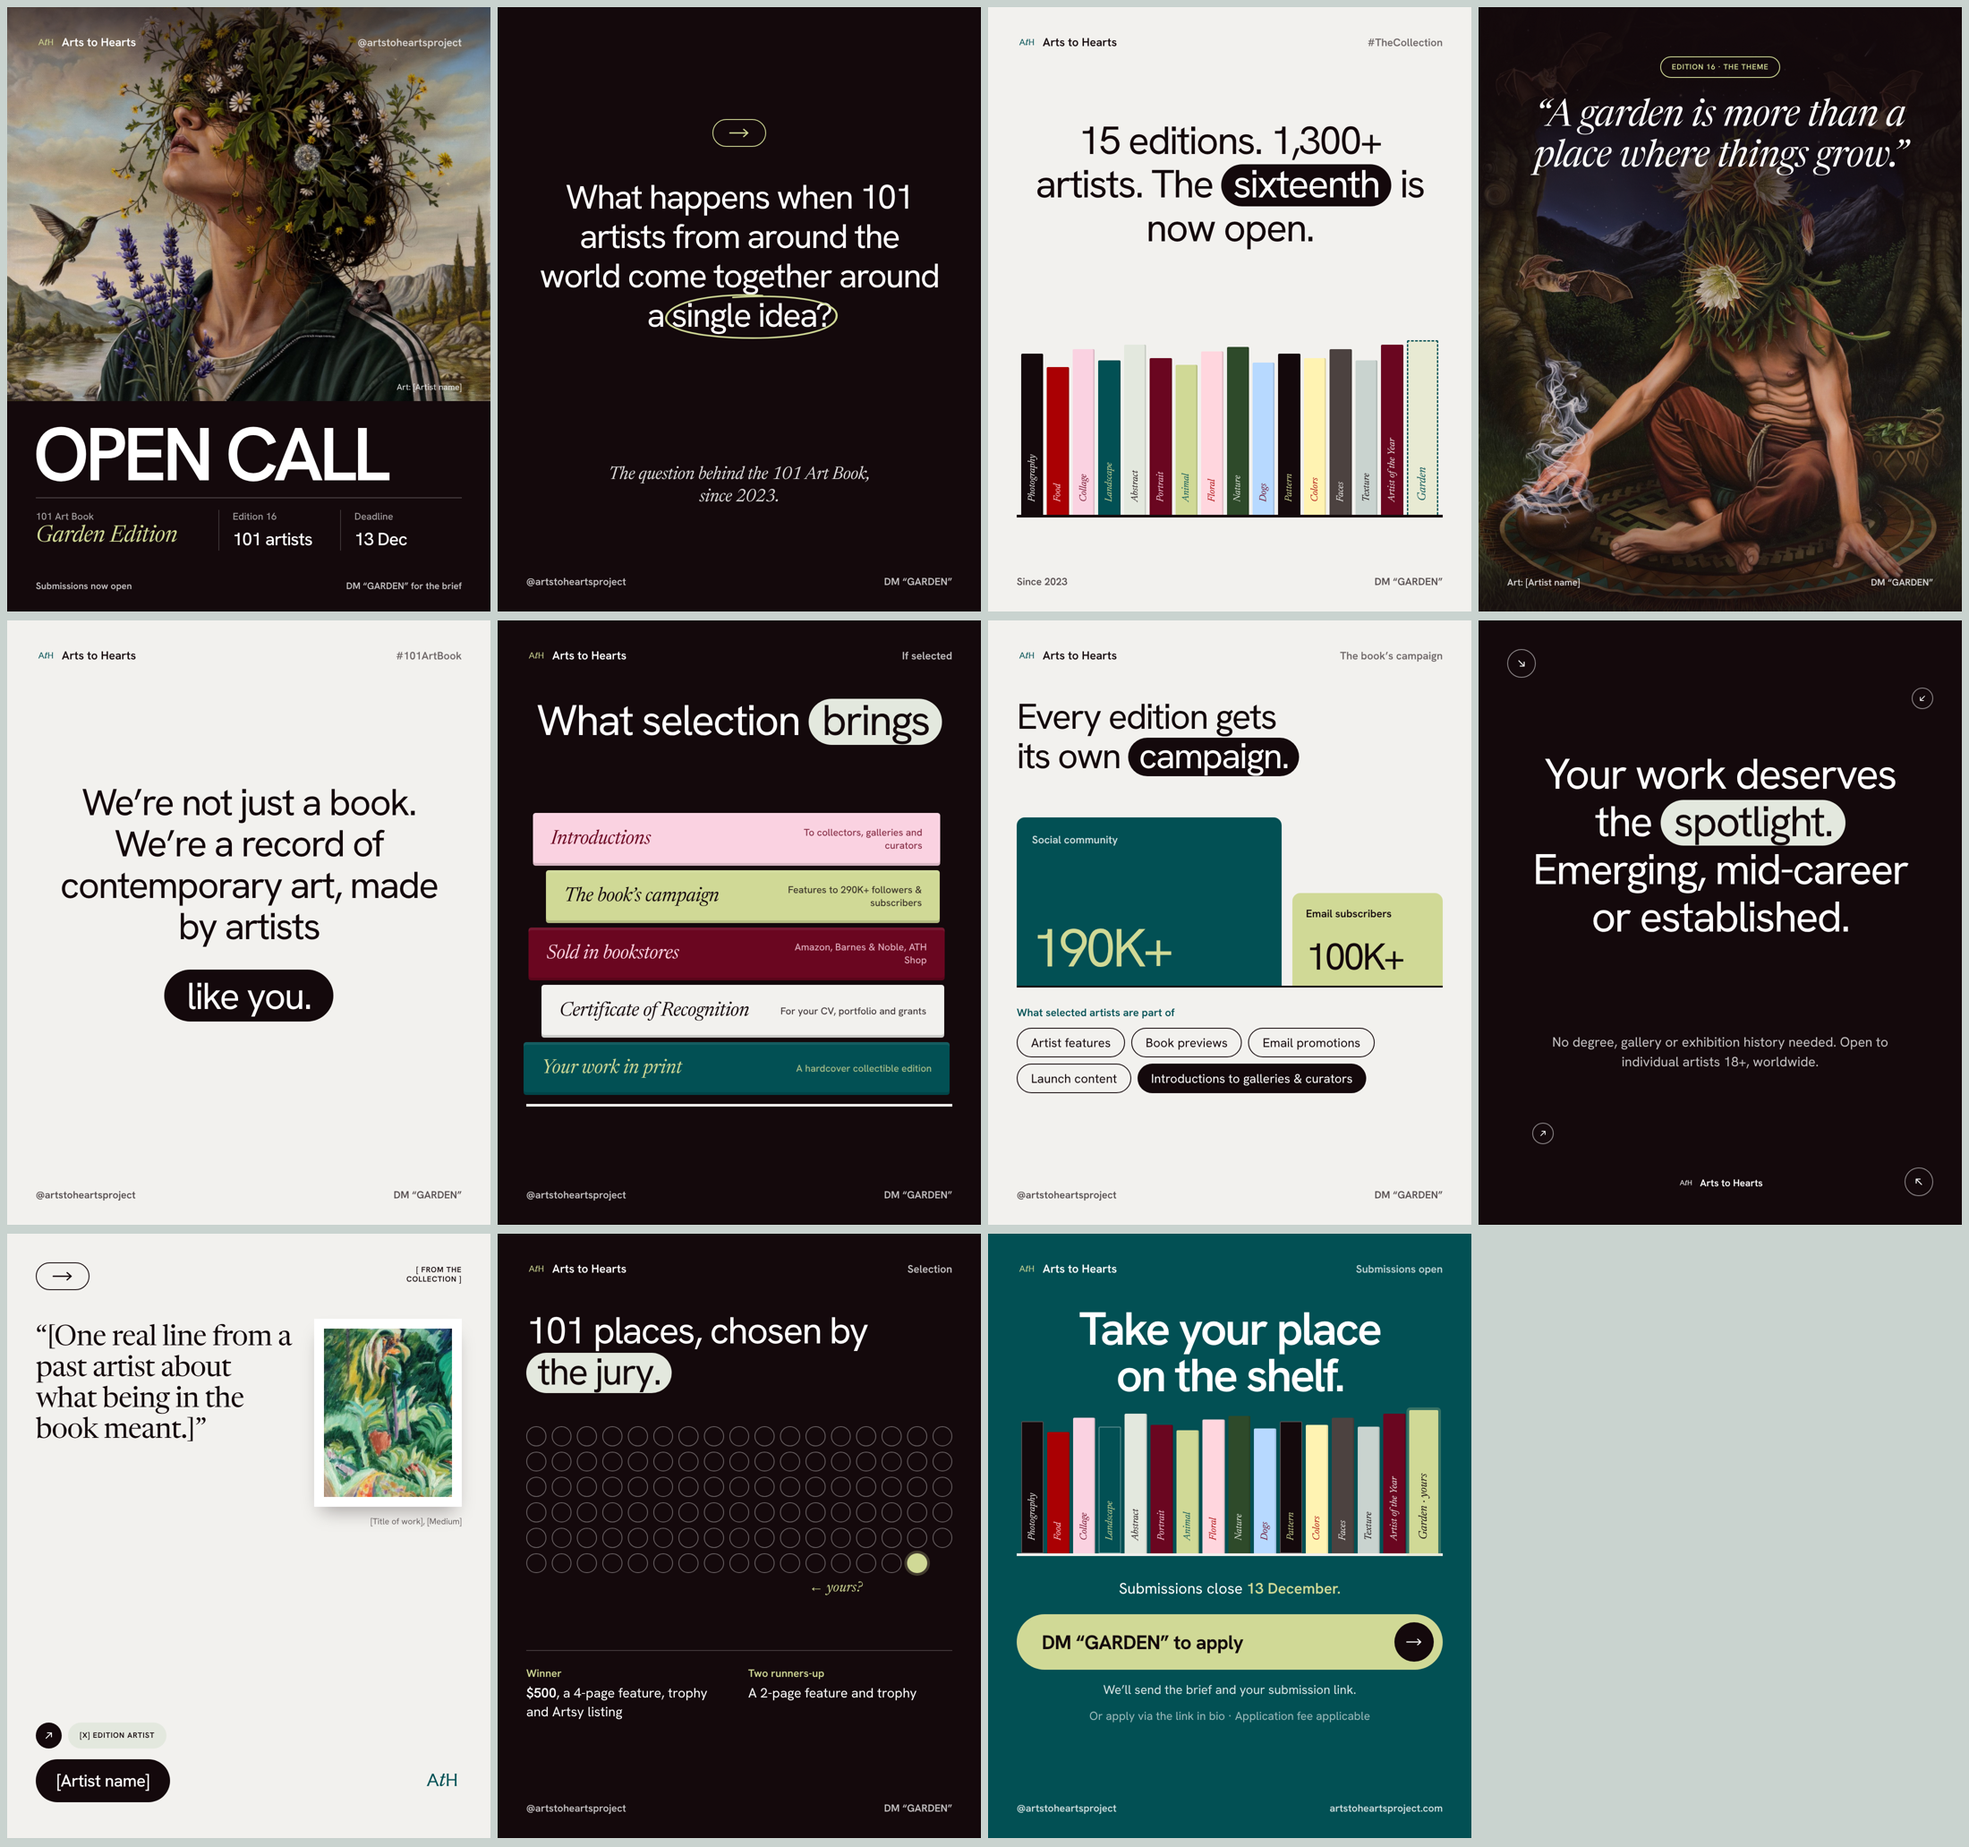
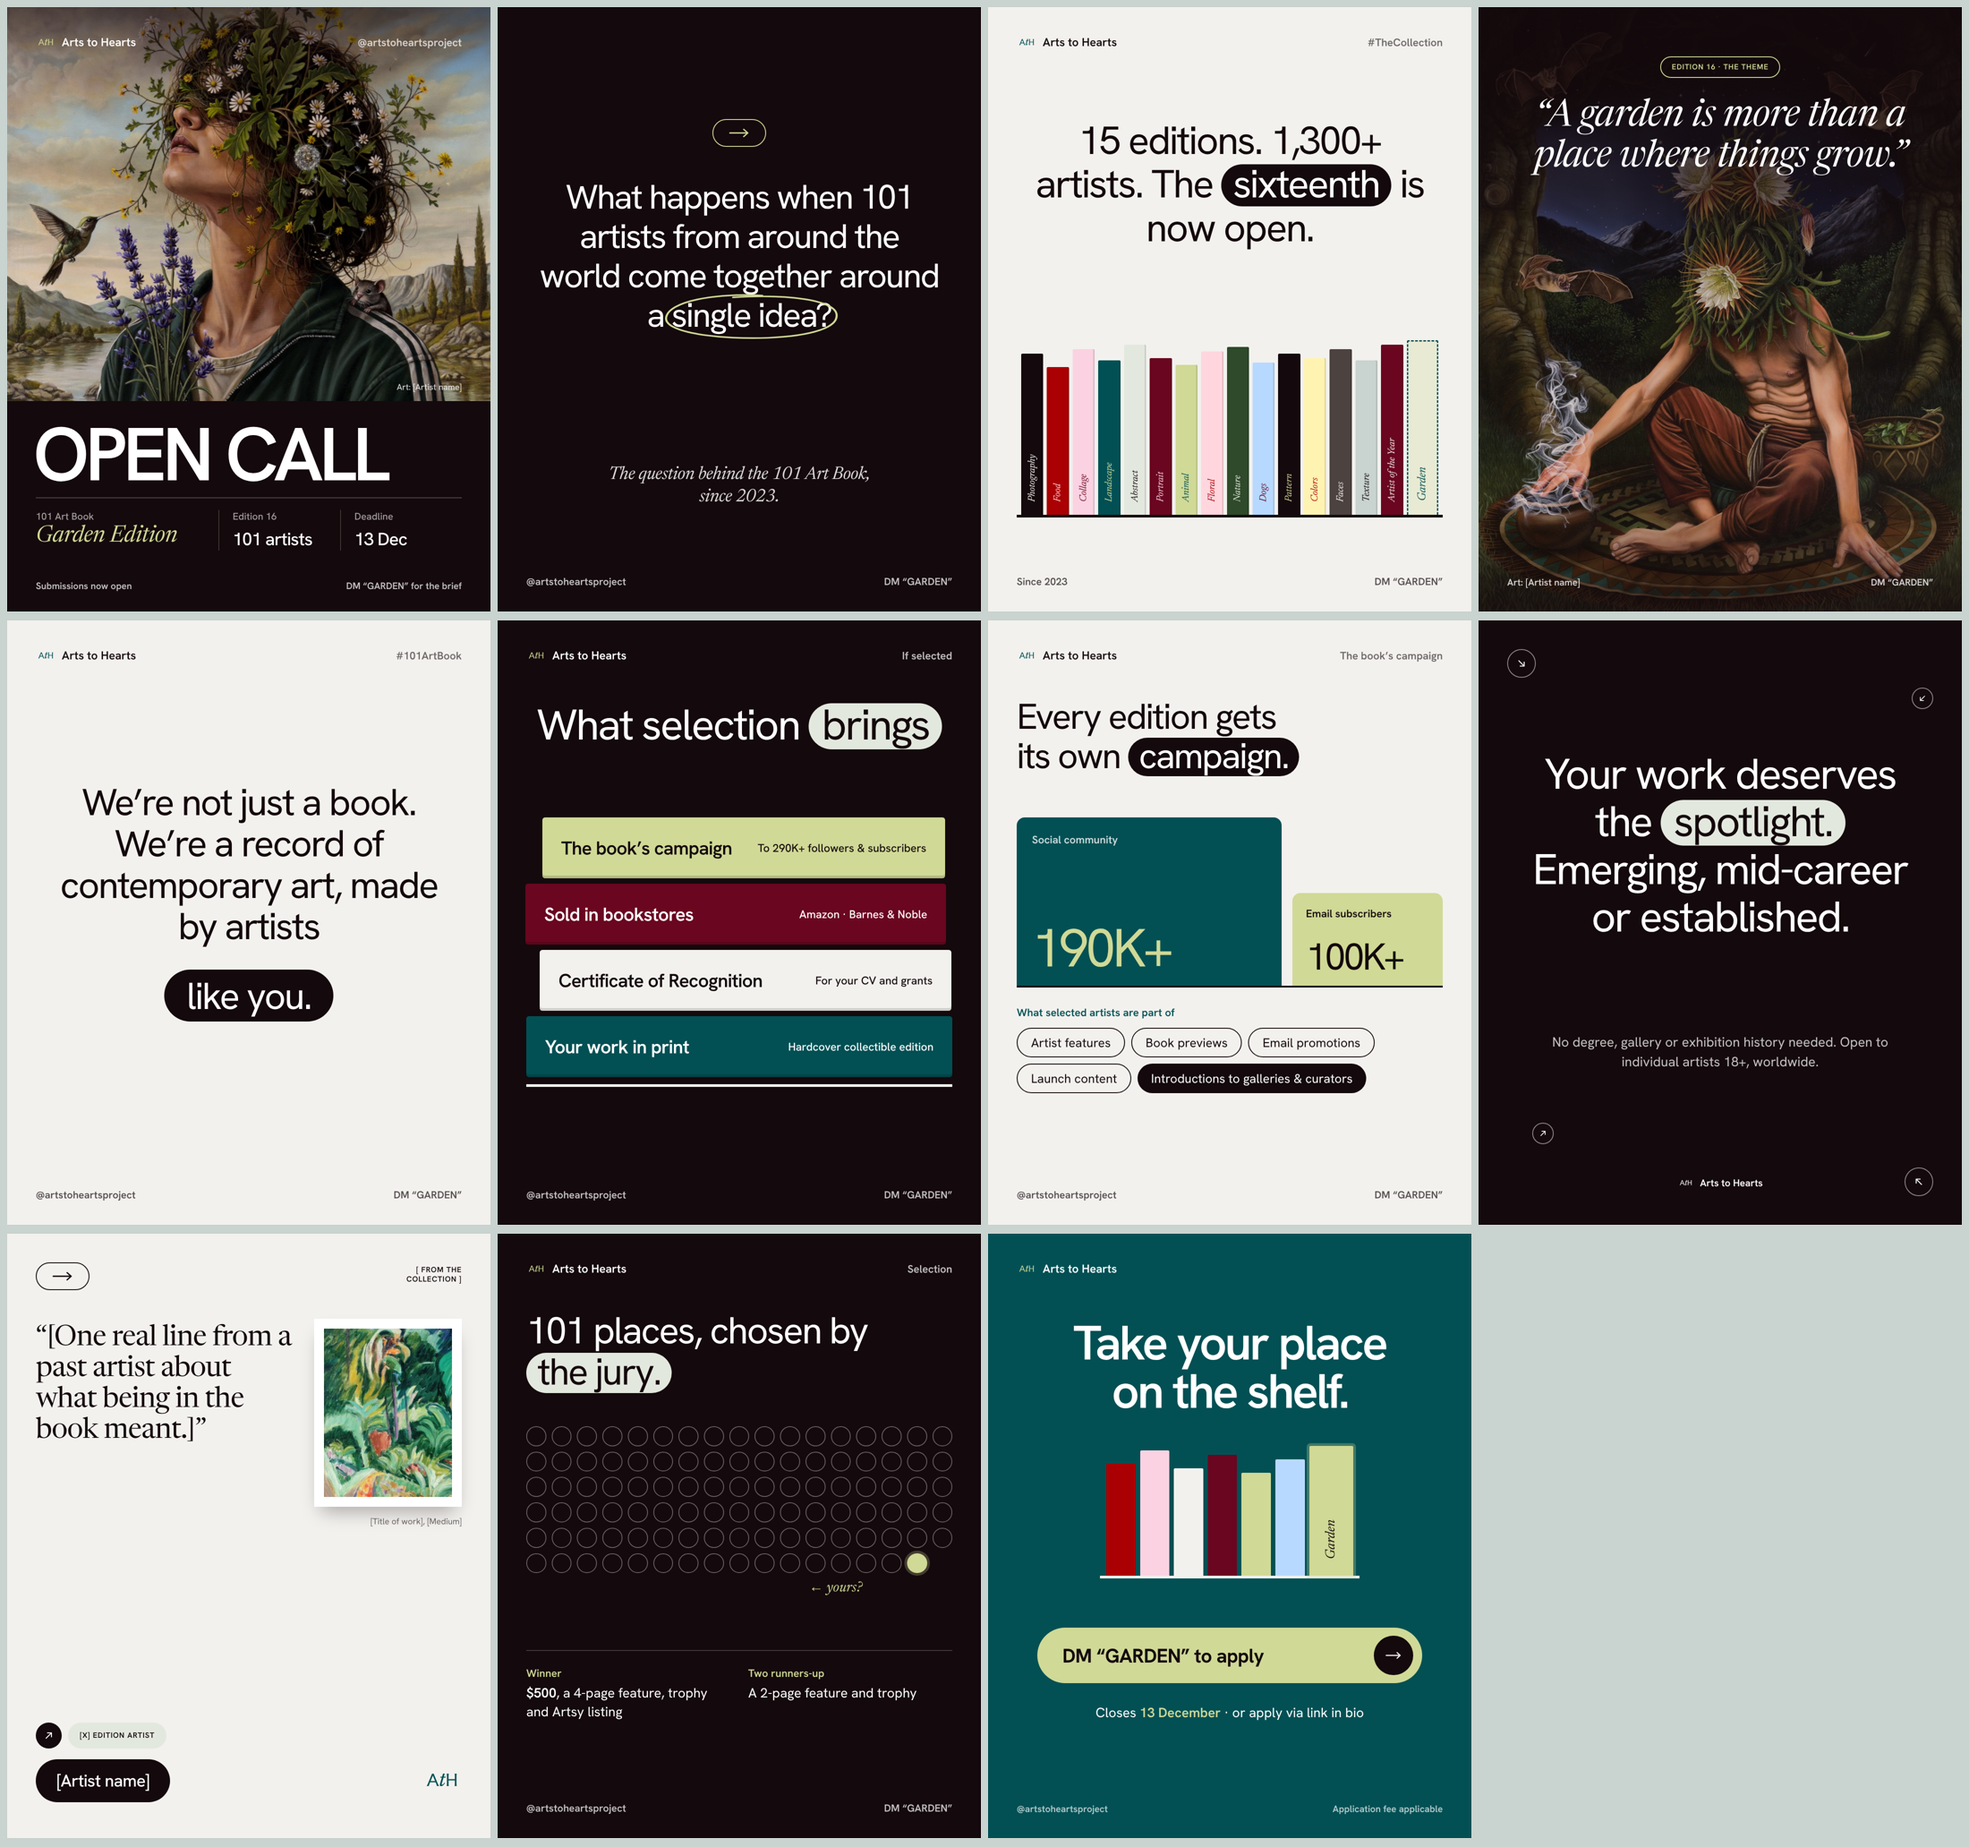
Garden launch: readable benefits stack, decluttered closing slide
Claude-Session: https://claude.ai/code/session_01Bc4gkdxg6i3YRuybqzVB3k

Changed region(s): [[0.4945, 0.7135, 0.7418, 0.9307], [0.2473, 0.4343, 0.4945, 0.6205], [0.2782, 0.3723, 0.4945, 0.4033]]

diff --git a/design/campaigns/open-calls/launch-ref.html b/design/campaigns/open-calls/launch-ref.html
@@ -81,9 +81,9 @@ body{margin:0;background:#C9D3CF;display:flex;flex-wrap:wrap;gap:40px;padding:40
 <!-- 6 · WHAT SELECTION BRINGS: a stack of books, one per benefit -->
 <div class="s dk" id="r6">
   <div class="a hdr"><span class="lg"><svg width="44" height="44" style="color:var(--pi)"><use href="#mg"/></svg>Arts to Hearts</span><span class="sm" style="opacity:.75">If selected</span></div>
-  <p class="a R c" style="left:80px;right:80px;top:170px;font-size:96px">What selection <span class="hl">brings</span></p>
-  <div class="a" style="left:64px;right:64px;top:430px;display:flex;flex-direction:column;gap:10px"><div style="width:910px;height:118px;margin-left:15px;background:#FAD2E1;color:#6A0620;border-radius:6px;display:flex;align-items:center;justify-content:space-between;padding:0 40px;box-shadow:inset 0 -6px 0 rgba(0,0,0,.14),inset 0 6px 0 rgba(255,255,255,.08)"><span class="it" style="font-size:44px">Introductions</span><span style="font-size:22px;font-weight:500;opacity:.8;text-align:right;max-width:330px;line-height:1.3">To collectors, galleries and curators</span></div><div style="width:880px;height:118px;margin-left:44px;background:#D0D996;color:#14090C;border-radius:6px;display:flex;align-items:center;justify-content:space-between;padding:0 40px;box-shadow:inset 0 -6px 0 rgba(0,0,0,.14),inset 0 6px 0 rgba(255,255,255,.08)"><span class="it" style="font-size:44px">The book’s campaign</span><span style="font-size:22px;font-weight:500;opacity:.8;text-align:right;max-width:330px;line-height:1.3">Features to 290K+ followers &amp; subscribers</span></div><div style="width:930px;height:118px;margin-left:5px;background:#6A0620;color:#FAD2E1;border-radius:6px;display:flex;align-items:center;justify-content:space-between;padding:0 40px;box-shadow:inset 0 -6px 0 rgba(0,0,0,.14),inset 0 6px 0 rgba(255,255,255,.08)"><span class="it" style="font-size:44px">Sold in bookstores</span><span style="font-size:22px;font-weight:500;opacity:.8;text-align:right;max-width:330px;line-height:1.3">Amazon, Barnes &amp; Noble, ATH Shop</span></div><div style="width:900px;height:118px;margin-left:34px;background:#F2F1EE;color:#14090C;border-radius:6px;display:flex;align-items:center;justify-content:space-between;padding:0 40px;box-shadow:inset 0 -6px 0 rgba(0,0,0,.14),inset 0 6px 0 rgba(255,255,255,.08)"><span class="it" style="font-size:44px">Certificate of Recognition</span><span style="font-size:22px;font-weight:500;opacity:.8;text-align:right;max-width:330px;line-height:1.3">For your CV, portfolio and grants</span></div><div style="width:952px;height:118px;margin-left:-6px;background:#025054;color:#D0D996;border-radius:6px;display:flex;align-items:center;justify-content:space-between;padding:0 40px;box-shadow:inset 0 -6px 0 rgba(0,0,0,.14),inset 0 6px 0 rgba(255,255,255,.08)"><span class="it" style="font-size:44px">Your work in print</span><span style="font-size:22px;font-weight:500;opacity:.8;text-align:right;max-width:330px;line-height:1.3">A hardcover collectible edition</span></div></div>
-  <div class="a" style="left:64px;right:64px;top:1080px;border-top:6px solid #F2F1EE"></div>
+  <p class="a R c" style="left:80px;right:80px;top:180px;font-size:96px">What selection <span class="hl">brings</span></p>
+  <div class="a" style="left:64px;right:64px;top:440px;display:flex;flex-direction:column;gap:12px"><div style="width:900px;height:136px;margin-left:36px;background:#D0D996;color:#14090C;border-radius:6px;display:flex;align-items:center;justify-content:space-between;padding:0 42px;box-shadow:inset 0 -6px 0 rgba(0,0,0,.14)"><span style="font-size:42px;font-weight:600;letter-spacing:-.025em">The book’s campaign</span><span style="font-size:25px;font-weight:500;text-align:right">To 290K+ followers &amp; subscribers</span></div><div style="width:940px;height:136px;margin-left:-2px;background:#6A0620;color:#FFFFFF;border-radius:6px;display:flex;align-items:center;justify-content:space-between;padding:0 42px;box-shadow:inset 0 -6px 0 rgba(0,0,0,.14)"><span style="font-size:42px;font-weight:600;letter-spacing:-.025em">Sold in bookstores</span><span style="font-size:25px;font-weight:500;text-align:right">Amazon · Barnes &amp; Noble</span></div><div style="width:920px;height:136px;margin-left:30px;background:#F2F1EE;color:#14090C;border-radius:6px;display:flex;align-items:center;justify-content:space-between;padding:0 42px;box-shadow:inset 0 -6px 0 rgba(0,0,0,.14)"><span style="font-size:42px;font-weight:600;letter-spacing:-.025em">Certificate of Recognition</span><span style="font-size:25px;font-weight:500;text-align:right">For your CV and grants</span></div><div style="width:952px;height:136px;margin-left:0px;background:#025054;color:#FFFFFF;border-radius:6px;display:flex;align-items:center;justify-content:space-between;padding:0 42px;box-shadow:inset 0 -6px 0 rgba(0,0,0,.14)"><span style="font-size:42px;font-weight:600;letter-spacing:-.025em">Your work in print</span><span style="font-size:25px;font-weight:500;text-align:right">Hardcover collectible edition</span></div></div>
+  <div class="a" style="left:64px;right:64px;top:1036px;border-top:6px solid #F2F1EE"></div>
   <div class="a ftr" style="opacity:.75"><span>@artstoheartsproject</span><span>DM “GARDEN”</span></div>
 </div>
 
@@ -142,18 +142,16 @@ body{margin:0;background:#C9D3CF;display:flex;flex-wrap:wrap;gap:40px;padding:40
   <div class="a ftr" style="opacity:.75"><span>@artstoheartsproject</span><span>DM “GARDEN”</span></div>
 </div>
 
-<!-- 11 · CTA: the shelf again, now with Garden filled in, and a clear action -->
+<!-- 11 · CTA: short shelf, one action -->
 <div class="s" id="r11" style="background:var(--pet);color:#fff">
-  <div class="a hdr"><span class="lg"><svg width="44" height="44" style="color:var(--pi)"><use href="#mg"/></svg>Arts to Hearts</span><span class="sm" style="opacity:.75">Submissions open</span></div>
-  <p class="a H c" style="left:60px;right:60px;top:160px;font-size:104px">Take your place<br>on the shelf.</p>
-  <div class="a" id="shelf2" style="left:64px;right:64px;top:420px;height:300px;display:flex;align-items:flex-end;gap:8px;border-bottom:6px solid #F2F1EE;padding:0 10px"></div>
-  <p class="a c" style="left:0;right:0;top:770px;font-size:34px">Submissions close <b style="font-weight:600;color:var(--pi)">13 December.</b></p>
-  <div class="a" style="left:64px;right:64px;top:850px;height:124px;border-radius:999px;background:var(--pi);color:var(--ink);display:flex;align-items:center;justify-content:space-between;padding:0 20px 0 56px">
+  <div class="a hdr"><span class="lg"><svg width="44" height="44" style="color:var(--pi)"><use href="#mg"/></svg>Arts to Hearts</span><span class="sm" style="opacity:.75"></span></div>
+  <p class="a H c" style="left:60px;right:60px;top:190px;font-size:108px">Take your place<br>on the shelf.</p>
+  <div class="a" id="shelf4" style="left:250px;right:250px;top:470px;height:300px;display:flex;align-items:flex-end;gap:10px;border-bottom:6px solid #F2F1EE;padding:0 14px"></div>
+  <div class="a" style="left:110px;right:110px;top:880px;height:124px;border-radius:999px;background:var(--pi);color:var(--ink);display:flex;align-items:center;justify-content:space-between;padding:0 20px 0 56px">
     <span style="font-size:44px;font-weight:700;letter-spacing:-.02em">DM “GARDEN” to apply</span>
     <span class="ci" style="width:88px;height:88px;background:var(--ink);color:#fff"><svg width="36" height="16"><use href="#ar"/></svg></span></div>
-  <p class="a c" style="left:0;right:0;top:1000px;font-size:28px;opacity:.85">We’ll send the brief and your submission link.</p>
-  <p class="a c" style="left:0;right:0;top:1060px;font-size:26px;opacity:.6">Or apply via the link in bio · Application fee applicable</p>
-  <div class="a ftr" style="opacity:.8"><span>@artstoheartsproject</span><span>artstoheartsproject.com</span></div>
+  <p class="a c" style="left:0;right:0;top:1050px;font-size:30px">Closes <b style="font-weight:600;color:var(--pi)">13 December</b> · or apply via link in bio</p>
+  <div class="a ftr" style="opacity:.7;font-size:21px"><span>@artstoheartsproject</span><span>Application fee applicable</span></div>
 </div>
 
 <script>
@@ -164,10 +162,11 @@ function shelf(id, k, slot){
    + `<div style="flex:1.3;height:${390*k}px;border:3px dashed ${slot};border-bottom:none;border-radius:3px 3px 0 0;position:relative;background:rgba(208,217,150,.3)">${lab('Garden',slot,26)}</div>`;
 }
 shelf('shelf', 1, '#025054');
-shelf('shelf2', .82, '#D0D996');
-{ const g = document.getElementById('shelf2').lastElementChild; g.style.background='#D0D996'; g.style.border='none'; g.style.boxShadow='0 0 0 6px rgba(208,217,150,.25)'; g.querySelector('span').style.color='#14090C'; g.querySelector('span').textContent='Garden · yours'; }
-document.querySelectorAll('#shelf2>div').forEach(d=>{ if(['rgb(2, 80, 84)','rgb(20, 9, 12)'].includes(d.style.backgroundColor)) d.style.boxShadow='inset 0 0 0 2px rgba(255,255,255,.35)'; });
-document.querySelectorAll('#shelf2>div').forEach(d=>{ if(d.style.backgroundColor==='rgb(20, 9, 12)') d.style.boxShadow='inset 0 0 0 2px rgba(255,255,255,.28)'; });
+if(document.getElementById('shelf2')) shelf('shelf2', .82, '#D0D996');
+document.getElementById('shelf4').innerHTML = [['#AA0003',250],['#FAD2E1',280],['#F2F1EE',240],['#6A0620',270],['#D0D996',230],['#B7D9FF',260]].map(([c,h]) => `<div style="flex:1;height:${h}px;background:${c};border-radius:3px 3px 0 0"></div>`).join('') + `<div style="flex:1.5;height:290px;background:#D0D996;border-radius:3px 3px 0 0;box-shadow:0 0 0 6px rgba(208,217,150,.3);position:relative"><span style="position:absolute;left:50%;bottom:22px;transform:translateX(-50%) rotate(-90deg);white-space:nowrap;font-family:NR,serif;font-style:italic;font-size:30px;width:0;color:#14090C">Garden</span></div>`;
+/*old*/ if(document.getElementById('shelf2')) { const g = document.getElementById('shelf2').lastElementChild; g.style.background='#D0D996'; g.style.border='none'; g.style.boxShadow='0 0 0 6px rgba(208,217,150,.25)'; g.querySelector('span').style.color='#14090C'; g.querySelector('span').textContent='Garden · yours'; }
+document.getElementById('shelf2') && document.querySelectorAll('#shelf2>div').forEach(d=>{ if(['rgb(2, 80, 84)','rgb(20, 9, 12)'].includes(d.style.backgroundColor)) d.style.boxShadow='inset 0 0 0 2px rgba(255,255,255,.35)'; });
+document.getElementById('shelf2') && document.querySelectorAll('#shelf2>div').forEach(d=>{ if(d.style.backgroundColor==='rgb(20, 9, 12)') d.style.boxShadow='inset 0 0 0 2px rgba(255,255,255,.28)'; });
 document.getElementById('dots').innerHTML = Array.from({length:101}, (_,i) => i === 100
   ? '<div style="aspect-ratio:1;border-radius:50%;background:#D0D996;box-shadow:0 0 0 6px rgba(208,217,150,.25)"></div>'
   : '<div style="aspect-ratio:1;border-radius:50%;border:2px solid rgba(255,255,255,.35)"></div>').join('')
